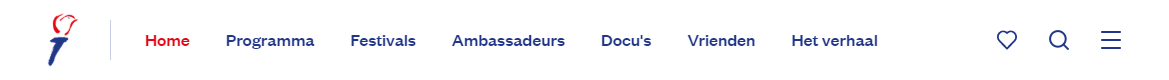
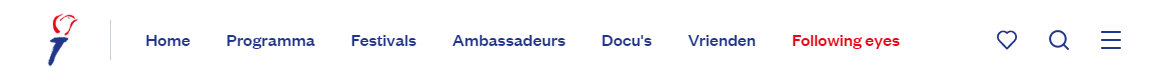
Menu image updated & removed text

Changed region(s): [[0.1232, 0.45, 0.5543, 0.6], [0.6775, 0.425, 0.7699, 0.625], [0.5851, 0.425, 0.6467, 0.575]]

diff --git a/src/eye.html b/src/eye.html
@@ -38,7 +38,7 @@
         <a class="back-button" href="#" ondblclick="event.preventDefault();document.location.href = 'index.html'" onclick="event.preventDefault();" title="Als het niet 1 klik is, wat dan wel?">Terug</a>
         <img class="eye__logo" src="./assets/fakker.png"/>
         
-        <span class="eye__logo-text">Bevrijdingsdag 2020</span>
+        <!-- <span class="eye__logo-text">Bevrijdingsdag 2020</span> -->
           <div class="music-button">
 			      <p class="music-button__text"></p>
             <div class="music-button--song music-button--song1">
